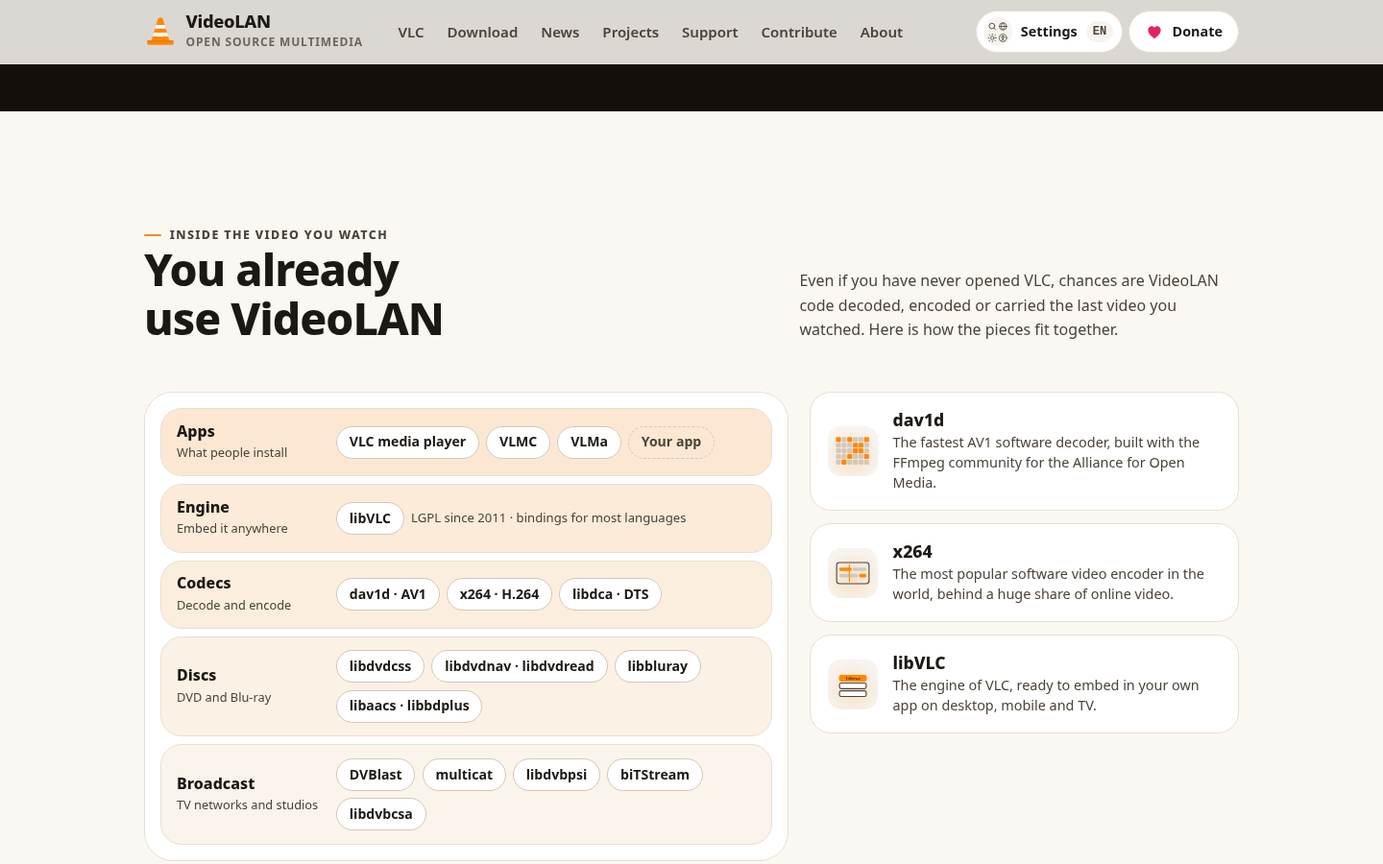
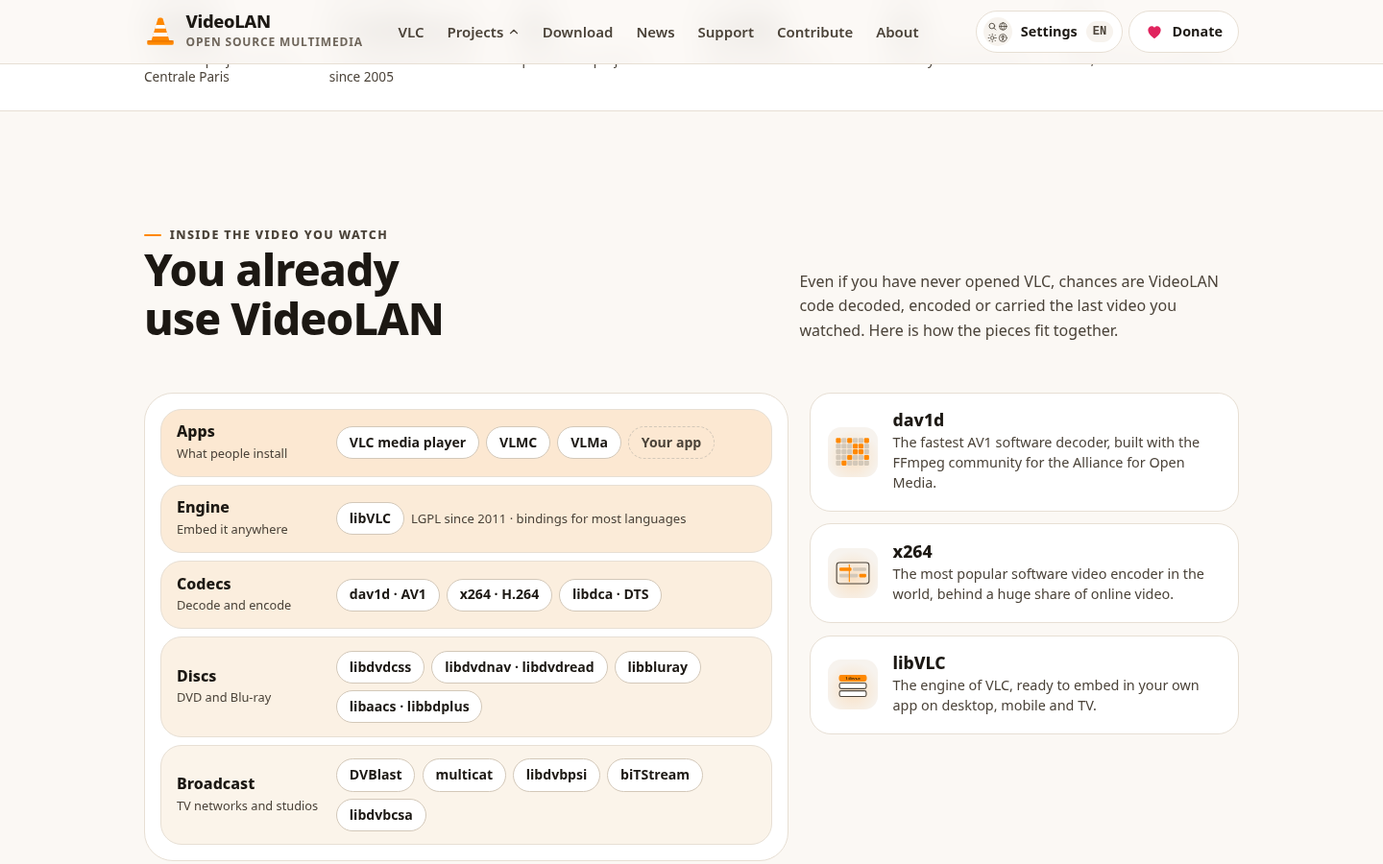
Projects menu and project grid hero: every VideoLAN project in the spotlight (1.2.0)
- Projects mega menu with all 16 projects by audience, in 4 languages
- English landing hero: VLC large tile plus dav1d, x264, libVLC,
  libbluray, DVBlast and +10 more; lede presents the whole non-profit
- Stack section moved before the VLC band; nav reordered
- deploy_ftp.py reads VLC_FTP_USER; README, CHANGELOG, docs, screenshots

diff --git a/site/site.css b/site/site.css
@@ -1651,3 +1651,58 @@ html.fx .sk.rv.in .sk-l{opacity:1;transform:none}
 html[data-theme=dark] .trail li.now{background:#2a1a08;border-color:var(--or)}
 .vband{background:radial-gradient(900px 520px at 85% 15%,#2e1a07,transparent 70%),#140f0a}
 html[data-theme=dark] .vband{border-block:1px solid #2a2118}
+/* ================= mega menu */
+.nav{align-items:center}
+.mega{position:static}
+.mega>summary{list-style:none;cursor:pointer;white-space:nowrap;color:var(--tx-2);font-weight:620;font-size:.9375rem;padding:.5rem .6rem .5rem .7rem;border-radius:999px;min-height:40px;display:inline-flex;align-items:center;gap:.25rem}
+.mega>summary::-webkit-details-marker{display:none}
+.mega>summary:hover,.mega[open]>summary{color:var(--tx);background:var(--sf-2)}
+.mega>summary.cur{color:var(--tx);background:var(--sf);box-shadow:inset 0 0 0 1px var(--ln)}
+.mega>summary:focus-visible{outline:3px solid var(--or);outline-offset:2px}
+.mg-chev{width:14px;height:14px;transform:rotate(180deg);transition:transform .2s}
+.mega[open] .mg-chev{transform:none}
+.mg-p{position:absolute;top:calc(100% + 1px);inset-inline:0;margin-inline:auto;width:min(1080px,calc(100vw - 2rem));background:var(--bg);border:1px solid var(--ln);border-top:0;border-radius:0 0 var(--r4) var(--r4);box-shadow:0 30px 60px -20px rgba(0,0,0,.35);padding:1.2rem 1.4rem 1.4rem;z-index:70}
+.hd .wrap{position:relative}
+.mg-top{display:flex;justify-content:space-between;align-items:center;gap:1rem;padding-bottom:1rem;margin-bottom:1rem;border-bottom:1px solid var(--ln)}
+.mg-top p{margin:0;font:760 1.05rem/1.3 var(--fd)}
+.mg-top span{display:flex;gap:1.2rem;flex-wrap:wrap}
+.mg-g{display:grid;grid-template-columns:1fr 1.15fr 2fr;gap:1.4rem}
+.mg-h{margin:0 0 .5rem;font-size:.75rem;font-weight:800;letter-spacing:.08em;text-transform:uppercase;color:var(--tx-3)}
+.mg-l{display:grid;gap:.15rem}
+.mg-dev .mg-l{grid-template-columns:1fr 1fr}
+.mg-i{display:grid;grid-template-columns:36px minmax(0,1fr);gap:.6rem;align-items:center;padding:.4rem .5rem;border-radius:12px;color:inherit;text-decoration:none!important;min-height:48px}
+.mg-i:hover{background:var(--sf)}
+.mg-il{width:36px;height:36px;border-radius:10px;display:flex;align-items:center;justify-content:center;background:var(--sf-2)}
+.mg-il .il{width:30px;height:30px}
+.mg-i b{display:block;font-size:.9rem;line-height:1.2}
+.mg-i small{display:block;font-size:.78rem;color:var(--tx-2);line-height:1.3}
+html.fx .mega[open] .mg-p{animation:mgIn .22s var(--ease)}
+@keyframes mgIn{from{opacity:0;transform:translateY(-6px)}to{opacity:1;transform:none}}
+/* ================= hero bento */
+.bento{display:grid;grid-template-columns:repeat(4,minmax(0,1fr));gap:.7rem}
+.bt{position:relative;display:flex;flex-direction:column;border-radius:var(--r3);border:1px solid var(--ln);background:var(--sf);color:inherit;text-decoration:none!important;transition:border-color .2s,box-shadow .25s,transform .25s var(--ease)}
+.bt:hover{border-color:var(--or);box-shadow:var(--sh)}
+html.fx .bt:hover{transform:translateY(-3px)}
+.bt:focus-visible{outline:3px solid var(--or);outline-offset:3px}
+.bt-vlc{grid-column:1/4;grid-row:1/3;overflow:hidden;background:radial-gradient(500px 300px at 80% 0%,#3a2207,transparent 70%),#140f0a;border-color:#2a2118;color:#fbf3ea;padding:1rem 1rem 0}
+.bt-mk{display:block;flex:1;min-height:0}
+.bt-mk .mk{width:100%;margin:0;transform:none!important;box-shadow:0 20px 40px -10px rgba(0,0,0,.6)}
+.bt-cap{position:absolute;inset-inline:.8rem;bottom:.8rem;display:flex;align-items:center;gap:.7rem;padding:.6rem .7rem .6rem .7rem;border-radius:14px;background:rgba(20,15,10,.82);backdrop-filter:blur(8px);-webkit-backdrop-filter:blur(8px);border:1px solid rgba(255,255,255,.12)}
+.bt-cap>svg{width:30px;height:30px;flex-shrink:0}
+.bt-cap b{display:block;font:780 .98rem/1.2 var(--fd);color:#fff}
+.bt-cap small{display:block;font-size:.78rem;color:#d9cfc3}
+.bt-cap .go{margin-inline-start:auto;display:inline-flex;align-items:center;gap:.35rem;padding:.45rem .8rem;border-radius:999px;background:var(--or);color:var(--on-or);font-weight:760;font-size:.84rem;white-space:nowrap}
+.bt-cap .go .ic{width:14px;height:14px}
+.bt-s{padding:.8rem;gap:.15rem;justify-content:flex-end;min-height:118px}
+.bt-il{position:absolute;top:.6rem;inset-inline-end:.6rem;width:46px;height:46px;border-radius:12px;display:flex;align-items:center;justify-content:center;background:radial-gradient(circle at 50% 60%,rgba(255,136,0,.18),transparent 70%),var(--sf-2)}
+.bt-il .il{width:40px;height:40px}
+.bt-s b{font:800 1rem/1.2 var(--fd)}
+.bt-s small,.bt-more small{font-size:.78rem;color:var(--tx-2);line-height:1.3}
+.bt-more{padding:.8rem;justify-content:flex-end;background:transparent;border-style:dashed}
+.bt-more b{font:820 1.6rem/1 var(--fd);color:var(--or-ink)}
+html.fx .bento .bt{animation:btIn .6s var(--ease) both;animation-delay:calc(.15s + var(--d,0)*60ms)}
+@keyframes btIn{from{opacity:0;transform:translateY(12px)}to{opacity:1;transform:none}}
+@media (prefers-reduced-motion:reduce){html.fx .bento .bt{animation:none}}
+@media (max-width:1180px) and (min-width:901px){.bento{grid-template-columns:repeat(3,minmax(0,1fr))}.bt-vlc{grid-column:1/-1;grid-row:auto}}
+@media (max-width:900px){.og-hero .hero-g{grid-template-columns:1fr}}
+@media (max-width:640px){.bento{grid-template-columns:1fr 1fr;gap:.55rem}.bt-vlc{grid-column:1/-1;grid-row:auto;padding:.7rem .7rem 0}.bt-cap{position:relative;inset:auto;margin:.7rem -.0rem .7rem}.bt-s{min-height:104px}.bt-cap small{display:none}}

diff --git a/site/site.js b/site/site.js
@@ -547,6 +547,14 @@
     if (W.matchMedia && matchMedia('(max-width: 900px)').matches) $$('.side details').forEach(function (x) { x.removeAttribute('open'); });
   }
 
+  /* ---------- projects mega menu */
+  function mega() {
+    var m = $('[data-mega]'); if (!m) return;
+    d.addEventListener('click', function (e) { if (m.open && !m.contains(e.target)) m.open = false; });
+    d.addEventListener('keydown', function (e) { if (e.key === 'Escape' && m.open) { m.open = false; m.querySelector('summary').focus(); } });
+    m.addEventListener('focusout', function (e) { if (m.open && e.relatedTarget && !m.contains(e.relatedTarget)) m.open = false; });
+  }
+
   /* ---------- timeline rail */
   function rail() {
     var box = $('[data-railbox]'); if (!box) return;
@@ -563,7 +571,7 @@
 
   /* ---------- init */
   d.addEventListener('error', function (e) { var t = e.target; if (t && t.tagName === 'IMG' && closest(t, '.prose')) t.style.display = 'none'; }, true);
-  applyTheme(); setCTA(); initDownload(); initShow(); initFilters(); reveal(); players(); pointerFx(); tocSpy(); rail();
+  applyTheme(); setCTA(); initDownload(); initShow(); initFilters(); reveal(); players(); pointerFx(); tocSpy(); rail(); mega();
   if (location.hash === '#donate') setTimeout(donate, 60);
   W.VLDonate = donate;
 })();

diff --git a/tools/build_site.py b/tools/build_site.py
@@ -239,10 +239,39 @@ def mk_tv(c, cls=''):
 <div class="tv-ui" aria-hidden="true"><h4 dir="{I.META[c.lang]['dir']}">{e(c.t('mk_lan'))}</h4><p dir="{I.META[c.lang]['dir']}">{e(c.t('mk_lan_p'))}</p><div class="tv-row" data-tvrow>{''.join(f'<div{" class=f" if i == 1 else ""}><img src="{c.root}media/{n}-640.jpg" alt="" loading="lazy" width="640" height="334"></div>' for i, n in enumerate(row))}</div></div></div><div class="stand"></div></figure>'''
 
 # ------------------------------------------------------------------ shell
-NAV = [('vlc', 'nav_vlc'), ('download', 'nav_download'), ('news', 'nav_news'), ('projects', 'nav_projects'), ('support', 'nav_support'), ('contribute', 'nav_contribute'), ('about', 'nav_about')]
+NAV = [('vlc', 'nav_vlc'), ('projects', 'nav_projects'), ('download', 'nav_download'), ('news', 'nav_news'), ('support', 'nav_support'), ('contribute', 'nav_contribute'), ('about', 'nav_about')]
 def nav_href(c, k):
     return {'vlc': c.page('vlc'), 'download': c.page('download'), 'features': c.page('vlc--features'), 'news': c.page('news'),
             'projects': c.page('projects'), 'support': c.page('support'), 'contribute': c.page('contribute'), 'about': c.page('videolan')}[k]
+ROLE = {'vlc': ('Media player', 'Lecteur multimédia', '媒体播放器', 'مشغّل وسائط'),
+        'vlc--libvlc': ('Embeddable media engine', 'Moteur multimédia intégrable', '可嵌入的多媒体引擎', 'محرّك وسائط قابل للتضمين'),
+        'projects--dav1d': ('AV1 decoder', 'Décodeur AV1', 'AV1 解码器', 'مفكّك ترميز AV1'),
+        'developers--x264': ('H.264 encoder', 'Encodeur H.264', 'H.264 编码器', 'مُرمِّز H.264'),
+        'projects--dvblast': ('DVB streaming', 'Diffusion DVB', 'DVB 流传输', 'بثّ DVB'),
+        'projects--multicat': ('Multicast tools', 'Outils multicast', '组播工具', 'أدوات البثّ المتعدّد'),
+        'vlmc': ('Video editor', 'Montage vidéo', '视频编辑器', 'محرّر فيديو'),
+        'developers--libdvdcss': ('DVD access', 'Accès aux DVD', 'DVD 访问', 'الوصول إلى أقراص DVD'),
+        'developers--libdvdnav': ('DVD menus', 'Menus DVD', 'DVD 菜单', 'قوائم DVD'),
+        'developers--libbluray': ('Blu-ray playback', 'Lecture Blu-ray', '蓝光播放', 'تشغيل Blu-ray'),
+        'developers--libaacs': ('AACS and BD+', 'AACS et BD+', 'AACS 与 BD+', 'AACS وBD+'),
+        'developers--libdvbpsi': ('MPEG TS tables', 'Tables MPEG TS', 'MPEG TS 表', 'جداول MPEG TS'),
+        'developers--bitstream': ('Stream headers', 'En-têtes de flux', '码流头部', 'ترويسات التدفّق'),
+        'developers--libdvbcsa': ('DVB scrambling', 'Embrouillage DVB', 'DVB 加扰', 'تشفير DVB'),
+        'developers--libdca': ('DTS decoder', 'Décodeur DTS', 'DTS 解码器', 'مفكّك ترميز DTS'),
+        'projects--vlma': ('TV broadcast manager', 'Gestion de diffusion TV', '电视播出管理', 'إدارة البثّ التلفزيوني')}
+MEGA_T = {'all': ('All projects & developers', 'Tous les projets et développeurs', '全部项目与开发者', 'كل المشاريع والمطوّرين'),
+          'src': ('Source code', 'Code source', '源代码', 'الشيفرة المصدرية'),
+          'lede': ('16 open source projects, one non-profit.', '16 projets libres, une seule association.', '16 个开源项目，同一个非营利组织。', '16 مشروعًا مفتوح المصدر، وجمعية واحدة غير ربحية.')}
+
+def mega(c, cur):
+    def it(x):
+        slug, name, il = x[0], x[1], x[2]
+        href = c.page(slug) if slug in S.ALL else x[6]
+        return f'<a class="mg-i" href="{href}"><span class="mg-il">{CU.illo(il)}</span><span><b dir="ltr">{e(name)}</b><small>{e(CU.P(c, ROLE[slug]))}</small></span></a>'
+    cols = ''.join(f'<div class="mg-c mg-{g}"><p class="mg-h">{e(CU.P(c, t))}</p><div class="mg-l">' + ''.join(it(x) for x in CU.PJ if x[3] == g) + '</div></div>' for g, t, _ in CU.PJ_GROUPS)
+    return (f'<details class="mega" data-mega><summary{" class=cur" if cur == "projects" else ""}>{e(c.t("nav_projects"))}{c.ico("chev", "ic mg-chev")}</summary>'
+            f'<div class="mg-p"><div class="mg-top"><p>{e(CU.P(c, MEGA_T["lede"]))}</p><span><a class="more" href="{c.page("projects")}">{e(CU.P(c, MEGA_T["all"]))}{c.ico("arrow", "ic flip")}</a><a class="more" href="https://code.videolan.org">{c.ico("git")}{e(CU.P(c, MEGA_T["src"]))}</a></span></div><div class="mg-g">{cols}</div></div></details>')
+
 NAV_ICO = dict(vlc='cone', download='download', features='sparkle', news='news', projects='box', support='chat', contribute='users', about='home')
 
 SITE_URL = 'https://vlc.paulfleury.com/'
@@ -278,7 +307,7 @@ def head(c, title, desc, slug, cur=''):
 <div class="rib" id="rib" role="region" aria-label="{e(c.t('proposal_short'))}"><div class="wrap"><p><span class="l">{e(c.t('proposal_bar'))}</span><span class="s">{e(c.t('proposal_short'))} ·</span> <a href="{c.page('design-notes')}">{e(c.t('read_notes'))}</a></p><button type="button" class="rib-x" data-rib-close aria-label="{e(c.t('hide'))}" title="{e(c.t('hide'))}">{c.ico('x')}</button></div></div>
 <header class="hd"><div class="wrap">
 <a class="brand" href="{c.page('home')}" aria-label="VideoLAN — {e(c.t('home'))}"><svg viewBox="0 0 64 64" aria-hidden="true"><use href="{c.root}icons.svg#i-cone"/></svg><span><b>VideoLAN</b><small>{'Open source multimedia' if c.lang == 'en' else 'VLC media player'}</small></span></a>
-<nav class="nav" aria-label="{e(c.t('menu'))}">{''.join(f'<a href="{nav_href(c, k)}"' + (' aria-current="page"' if k == cur else '') + f'>{e(c.t(l))}</a>' for k, l in NAV)}</nav>
+<nav class="nav" aria-label="{e(c.t('menu'))}">{''.join(mega(c, cur) if k == 'projects' else f'<a href="{nav_href(c, k)}"' + (' aria-current="page"' if k == cur else '') + f'>{e(c.t(l))}</a>' for k, l in NAV)}</nav>
 <div class="tools">
 <button type="button" class="setb" data-open="settings" aria-keyshortcuts="Control+K /"><span class="setb-i">{c.ico('search')}{c.ico('globe')}{c.ico('sun')}{c.ico('a11y')}</span><span class="setb-l">{e(c.t('set_title'))}</span><span class="setb-c">{c.lang.upper()}</span><span class="sr"> — {e(c.t('set_sub'))}</span></button>
 <a class="btn btn-gh btn-sm hide-md" href="{c.page('contribute')}" data-donate>{c.ico('heart', 'ic heart')}{e(c.t('donate'))}</a>
@@ -519,6 +548,9 @@ def home(c, slug='home'):
     return '\n'.join(h)
 
 # ------------------------------------------------------------------ VideoLAN landing (EN)
+BENTO = [('projects--dav1d', 'dav1d', 'tiles', 'AV1 decoder in your browser'), ('developers--x264', 'x264', 'streams', 'The H.264 encoder'),
+         ('vlc--libvlc', 'libVLC', 'stack', 'Engine for your app'), ('developers--libbluray', 'libbluray', 'disc', 'Blu-ray playback'),
+         ('projects--dvblast', 'DVBlast', 'waves', 'Streams for TV networks')]
 VDD = [('2008', 'Paris', None), ('2009', 'Paris', 'videolan--events--vdd09'), ('2011', 'Paris', 'videolan--events--vdd11'), ('2012', 'Paris', 'videolan--events--vdd12'), ('2013', 'Paris', 'videolan--events--vdd13'),
        ('2014', 'Dublin', None), ('2015', 'Paris', 'videolan--events--vdd15'), ('2016', 'Berlin', 'videolan--events--vdd16'), ('2017', 'Paris', 'videolan--events--vdd17'), ('2018', 'Paris', 'videolan--events--vdd18'),
        ('2019', 'Tokyo', 'videolan--events--vdd19'), ('2023', 'Dublin', 'videolan--events--vdd23'), ('2024', 'Seoul', 'videolan--events--vdd24'), ('2025', 'London', 'videolan--events--vdd25'), ('2026', 'Rome', 'videolan--events--vdd26')]
@@ -534,32 +566,23 @@ def org_home(c):
 <div>
 <p class="kick">VideoLAN · non-profit · 30 years of open source</p>
 <h1><span class="l">Open source multimedia,</span><span class="l"><em>for everyone.</em></span></h1>
-<p class="lede">VideoLAN is the volunteer project and non-profit organisation behind <a href="{c.page('vlc')}">VLC media player</a>, and a family of open source libraries and tools used across the media world: from the AV1 decoder in your browser to the encoders behind online video. No ads, no tracking, no investors.</p>
+<p class="lede">VideoLAN is a non-profit and a community of volunteers building free multimedia software since 1996: <a href="{c.page('vlc')}">VLC media player</a>, and the codecs, disc libraries and broadcast tools inside the browsers, phones and TV networks you use every day.</p>
 <div class="cta">
 <div class="cta-row">
 <a class="cta-main" id="cta" href="{w['url']}"{dlattrs(w)}><span class="cta-os"><svg class="ic" aria-hidden="true"><use id="cta-ico" href="{c.root}icons.svg#i-windows"/></svg></span><span class="cta-t"><b id="cta-b">{e(c.t('cta_download'))}</b><span id="cta-s">{e(hero_sub)}</span></span><span class="cta-dl">{c.ico('download')}</span></a>
-<a class="cta-alt cta-alt-l" href="#projects"><span class="cta-alt-i" aria-hidden="true">{c.ico('box')}{c.ico('code')}{c.ico('film')}{c.ico('disc')}</span><span>Explore all projects</span></a>
+<a class="cta-alt cta-alt-l" href="#projects"><span class="cta-alt-i" aria-hidden="true">{c.ico('box')}{c.ico('code')}{c.ico('film')}{c.ico('disc')}</span><span>Explore all 16 projects</span></a>
 </div>
 <ul class="trust"><li>{c.ico('check')}Free and open source</li><li>{c.ico('shield')}Non-profit, independent</li><li>{c.ico('lock')}No ads, no tracking</li></ul>
 </div></div>
-<a class="stage vspot" href="{c.page('vlc')}" aria-label="Discover VLC media player"><div class="tilt">{mk_win(c, 'bbb', eager=True)}</div>{mk_android(c)}
-<span class="vspot-tag"><svg viewBox="0 0 64 64" aria-hidden="true"><use href="{c.root}icons.svg#i-cone"/></svg><span><b>VLC media player {V}</b><small>Plays everything. Tracks nothing.</small></span><span class="go">Discover VLC{c.ico('arrow', 'ic flip')}</span></span></a>
+<div class="bento" aria-label="VideoLAN projects">
+<a class="bt bt-vlc" href="{c.page('vlc')}"><span class="bt-mk" aria-hidden="true">{mk_win(c, 'bbb', eager=True)}</span><span class="bt-cap"><svg viewBox="0 0 64 64" aria-hidden="true"><use href="{c.root}icons.svg#i-cone"/></svg><span><b>VLC media player</b><small>Our flagship · {V}</small></span><span class="go">Discover{c.ico('arrow', 'ic flip')}</span></span></a>
+{''.join(f'<a class="bt bt-s" href="{c.page(sl)}" style="--d:{i}"><span class="bt-il">{CU.illo(il)}</span><b dir="ltr">{e(n)}</b><small>{e(r)}</small></a>' for i, (sl, n, il, r) in enumerate(BENTO))}
+<a class="bt bt-more" href="#projects"><b>+{len(CU.PJ) - len(BENTO) - 1}</b><small>more projects</small></a>
+</div>
 </div></section>""")
     # ---------- key numbers
     nums = [('1996', 'a student project at École Centrale Paris'), ('7 billion+', 'VLC downloads counted since 2005'), (str(len(CU.PJ)), 'open source projects'), (f'{people:,}', 'named contributors'), (str(len(VDD)), 'Dev Days in seven cities'), ('0', 'ads, trackers or investors')]
     h.append('<div class="kstrip" role="list" aria-label="VideoLAN in numbers"><div class="wrap">' + ''.join(f'<div role="listitem" class="rv d{i % 3}"><b>{e(n)}</b><span>{e(t)}</span></div>' for i, (n, t) in enumerate(nums)) + '</div></div>')
-    # ---------- VLC flagship
-    vp = [('film', 'Plays everything', 'Files, discs, webcams, devices and streams, with no codec packs to install.'),
-          ('gauge', 'Fast everywhere', 'Hardware decoding on most platforms, from 8K HDR to old laptops.'),
-          ('phone', 'On every screen', 'Windows, macOS, Linux, Android, iOS, Apple TV, ChromeOS and more.'),
-          ('shield', 'Private by design', 'No ads, no tracking, no accounts. Ever.')]
-    h.append(f"""<section class="band vband" id="vlc"><div class="wrap vband-g">
-<div class="rv"><p class="kick" style="color:#ffb366">Our flagship</p><h2>VLC media player</h2>
-<p class="vband-lede">The free, cross-platform player that plays just about anything, used by hundreds of millions of people. Built on libVLC, the same engine developers embed in their own apps.</p>
-<div class="vfeat">{''.join(f'<div>{c.ico(ic)}<b>{e(t)}</b><span>{e(d)}</span></div>' for ic, t, d in vp)}</div>
-<div class="vband-cta"><a class="btn btn-or" href="{c.page('vlc')}">{c.ico('cone')}Discover VLC</a><a class="btn btn-gh-d" href="{c.page('download')}">{c.ico('download')}All downloads</a><a class="btn btn-gh-d" href="{c.page('vlc--features')}">{c.ico('sparkle')}Features</a><a class="btn btn-gh-d" href="{c.page('vlc--libvlc')}">{c.ico('code')}libVLC</a></div></div>
-<div class="vband-art rv d1" aria-hidden="true">{mk_tv(c)}{mk_iphone(c, cls="vb-ph")}</div>
-</div></section>""")
     # ---------- the VideoLAN stack
     def chip(sl, name, url=None):
         href = c.page(sl) if sl in S.ALL else (url or c.page('projects'))
@@ -578,6 +601,18 @@ def org_home(c):
 <div class="sk rv" role="list" aria-label="The VideoLAN software stack">{''.join(f'<div class="sk-l" role="listitem" style="--i:{i}"><div class="sk-h"><b>{e(t)}</b><small>{e(d)}</small></div><div class="sk-c">{"".join(ch)}</div></div>' for i, (t, d, ch) in enumerate(layers))}</div>
 <div class="sk-f">{''.join(f'<a class="sk-fact glow rv d{i % 3}" href="{c.page(sl)}"><span class="pi-il">{CU.illo(il)}</span><span><b dir="ltr">{e(n)}</b><span>{e(d)}</span></span></a>' for i, (il, n, d, sl) in enumerate(facts))}</div>
 </div></div></section>""")
+    # ---------- VLC flagship
+    vp = [('film', 'Plays everything', 'Files, discs, webcams, devices and streams, with no codec packs to install.'),
+          ('gauge', 'Fast everywhere', 'Hardware decoding on most platforms, from 8K HDR to old laptops.'),
+          ('phone', 'On every screen', 'Windows, macOS, Linux, Android, iOS, Apple TV, ChromeOS and more.'),
+          ('shield', 'Private by design', 'No ads, no tracking, no accounts. Ever.')]
+    h.append(f"""<section class="band vband" id="vlc"><div class="wrap vband-g">
+<div class="rv"><p class="kick" style="color:#ffb366">Our flagship</p><h2>VLC media player</h2>
+<p class="vband-lede">The free, cross-platform player that plays just about anything, used by hundreds of millions of people. Built on libVLC, the same engine developers embed in their own apps.</p>
+<div class="vfeat">{''.join(f'<div>{c.ico(ic)}<b>{e(t)}</b><span>{e(d)}</span></div>' for ic, t, d in vp)}</div>
+<div class="vband-cta"><a class="btn btn-or" href="{c.page('vlc')}">{c.ico('cone')}Discover VLC</a><a class="btn btn-gh-d" href="{c.page('download')}">{c.ico('download')}All downloads</a><a class="btn btn-gh-d" href="{c.page('vlc--features')}">{c.ico('sparkle')}Features</a><a class="btn btn-gh-d" href="{c.page('vlc--libvlc')}">{c.ico('code')}libVLC</a></div></div>
+<div class="vband-art rv d1" aria-hidden="true">{mk_tv(c)}{mk_iphone(c, cls="vb-ph")}</div>
+</div></section>""")
     # ---------- what VideoLAN is
     vals = [('feather', 'Independent', 'No investors and no company behind it. An autonomous non-profit association under French law since 2009.'),
             ('code', 'Open', 'Every line of code is free software, released under the GPL, LGPL, BSD and other open licences.'),

diff --git a/tools/shots.py b/tools/shots.py
@@ -18,6 +18,7 @@ SHOTS = [
     ('home-light', 'index.html', 1440, 900, 'light', WIN, None, 1),
     ('home-dark', 'index.html', 1440, 900, 'dark', WIN, None, 1),
     ('vlc-page', 'p/vlc.html', 1440, 900, 'light', WIN, None, 1),
+    ('org-menu', 'index.html', 1440, 900, 'light', WIN, '.mega summary', 1),
     ('org-stack', 'index.html', 1440, 900, 'light', WIN, 'scroll:#stack', 1),
     ('org-story', 'index.html', 1440, 900, 'dark', WIN, 'scroll:#about .rail-h', 1),
     ('org-people', 'index.html', 1440, 900, 'light', WIN, 'scroll:.vdd', 1),

diff --git a/tools/deploy_ftp.py b/tools/deploy_ftp.py
@@ -1,7 +1,8 @@
 #!/usr/bin/env python3
 """Mirror dist/ to vlc.paulfleury.com/public_html over FTP (parallel, skips unchanged by size+manifest)."""
 import ftplib, os, sys, pathlib, hashlib, json, threading, queue
-HOST, USER = 'ftp.paulfleury.com', 'vlc2@paulfleury.com'
+HOST = 'ftp.paulfleury.com'
+USER = os.environ.get('VLC_FTP_USER', 'vlc2@paulfleury.com')
 PASS = os.environ.get('VLC_FTP_PASS')
 REMOTE = '/vlc.paulfleury.com/public_html'
 DIST = pathlib.Path(__file__).resolve().parent.parent / 'dist'

diff --git a/README.md b/README.md
@@ -15,7 +15,7 @@ Everything is live at **[vlc.paulfleury.com](https://vlc.paulfleury.com)**. Pref
 [![live: vlc.paulfleury.com](https://img.shields.io/badge/live-vlc.paulfleury.com-ff8800?style=for-the-badge&labelColor=282828)](https://vlc.paulfleury.com)
 [![download: vlc-web-redesign.zip](https://img.shields.io/badge/download-vlc--web--redesign.zip-0a0a0a?style=for-the-badge&labelColor=282828)](https://vlc.paulfleury.com/vlc-web-redesign.zip)
 
-[![version: 1.1.0](https://img.shields.io/badge/version-1.1.0-ff8800?style=flat-square&labelColor=282828)](CHANGELOG.md)
+[![version: 1.2.0](https://img.shields.io/badge/version-1.2.0-ff8800?style=flat-square&labelColor=282828)](CHANGELOG.md)
 [![pages: 1,236](https://img.shields.io/badge/pages-1%2C236-0a0a0a?style=flat-square&labelColor=282828)](#-whats-inside)
 [![i18n: EN · FR · 中文 · العربية](https://img.shields.io/badge/i18n-EN%20%C2%B7%20FR%20%C2%B7%20%E4%B8%AD%E6%96%87%20%C2%B7%20%D8%A7%D9%84%D8%B9%D8%B1%D8%A8%D9%8A%D8%A9-0a0a0a?style=flat-square&labelColor=282828)](#-four-languages-one-rtl)
 [![RTL: Arabic](https://img.shields.io/badge/RTL-Arabic-0a0a0a?style=flat-square&labelColor=282828)](#-four-languages-one-rtl)
@@ -71,14 +71,17 @@ Since 1.1.0 the English homepage presents the whole organisation, built from wha
 
 | Section | What it shows |
 |---|---|
-| **Hero** | VideoLAN in one sentence, the detected VLC download, and the VLC mockups as a link to the player's page |
+| **Projects menu** | One click on *Projects* opens all 16 projects by audience, with illustrations and roles, in every language |
+| **Hero** | VideoLAN in one sentence, the detected VLC download, and a project grid: VLC as the large tile, then dav1d, x264, libVLC, libbluray, DVBlast and 10 more |
 | **In numbers** | 1996 · 7 billion+ VLC downloads counted since 2005 · 16 projects · 1,062 named contributors · 15 Dev Days · 0 ads |
-| **VLC, our flagship** | Four promises, TV and iPhone mockups, links to downloads, features and libVLC |
 | **You already use VideoLAN** | The VideoLAN stack in five layers (apps, engine, codecs, discs, broadcast), with dav1d, x264 and libVLC called out |
+| **VLC, our flagship** | Four promises, TV and iPhone mockups, links to downloads, features and libVLC |
 | **A project, and a non-profit** | Values, then a scrollable 30-year timeline: 1996 campus TV to the 15th Dev Days in Rome |
 | **Projects** | All 16 projects grouped for everyone, for broadcasters, for developers |
 | **People** | Board, Dev Days 2014 photo, all 15 Video Dev Days editions (Paris to Rome), partners |
 | **News, Get involved, The organisation** | Latest posts, four ways to help, donation, press, legal, privacy, security, mirrors, contact |
+
+<div align="center"><img src=".github/img/org-menu.png" alt="The Projects menu: all 16 VideoLAN projects grouped by audience" width="100%"></div>
 
 <table>
 <tr>

diff --git a/CHANGELOG.md b/CHANGELOG.md
@@ -2,6 +2,19 @@
 
 All notable changes to this project. Dates are in Europe/Lisbon time.
 
+## [1.2.0] — 2026-11-22
+
+Every VideoLAN project gets the spotlight, with VLC still first.
+
+### Added
+- Projects menu: a full panel under *Projects* listing all 16 projects by audience, each with its illustration and a one-line role, in all four languages; closes on Escape, outside click or focus leaving.
+- Hero project grid on the English landing: VLC as the large tile, plus dav1d, x264, libVLC, libbluray, DVBlast and "+10 more projects".
+
+### Changed
+- Hero text presents VideoLAN as a non-profit and a community, then VLC and the codecs, disc libraries and broadcast tools.
+- "You already use VideoLAN" now comes before the VLC band.
+- Navigation order: VLC, Projects, Download, News, Support, Contribute, About.
+
 ## [1.1.0] — 2026-11-22
 
 VideoLAN, not just VLC. The English homepage now presents the whole organisation.

diff --git a/docs/ARCHITECTURE.md b/docs/ARCHITECTURE.md
@@ -25,6 +25,7 @@ tools/lite.py (simple page) ──────────┘                   
 | `head()` / `foot()` | shared shell: old-browser guard, theme bootstrap, header, settings button, footer, `hreflang`, canonical, Open Graph |
 | `home(c, slug)` | VLC home (`p/vlc.html` everywhere, and `index.html` for languages without the landing), mockups |
 | `org_home()` | English VideoLAN landing (`index.html`): stack, timeline, projects, people, Dev Days (`VDD`) |
+| `mega()` | the *Projects* menu panel (all 16 projects, `ROLE` one-liners in 4 languages) |
 | `dl_template()` | the `<template id="dlt">` holding the download chooser, shared by both homes |
 | `download_block()` | the download centre, reused by the download page and the chooser |
 | `content_page()` | every other page: reading layout, or the project layout (`band()` + `directory()`) for projects |
